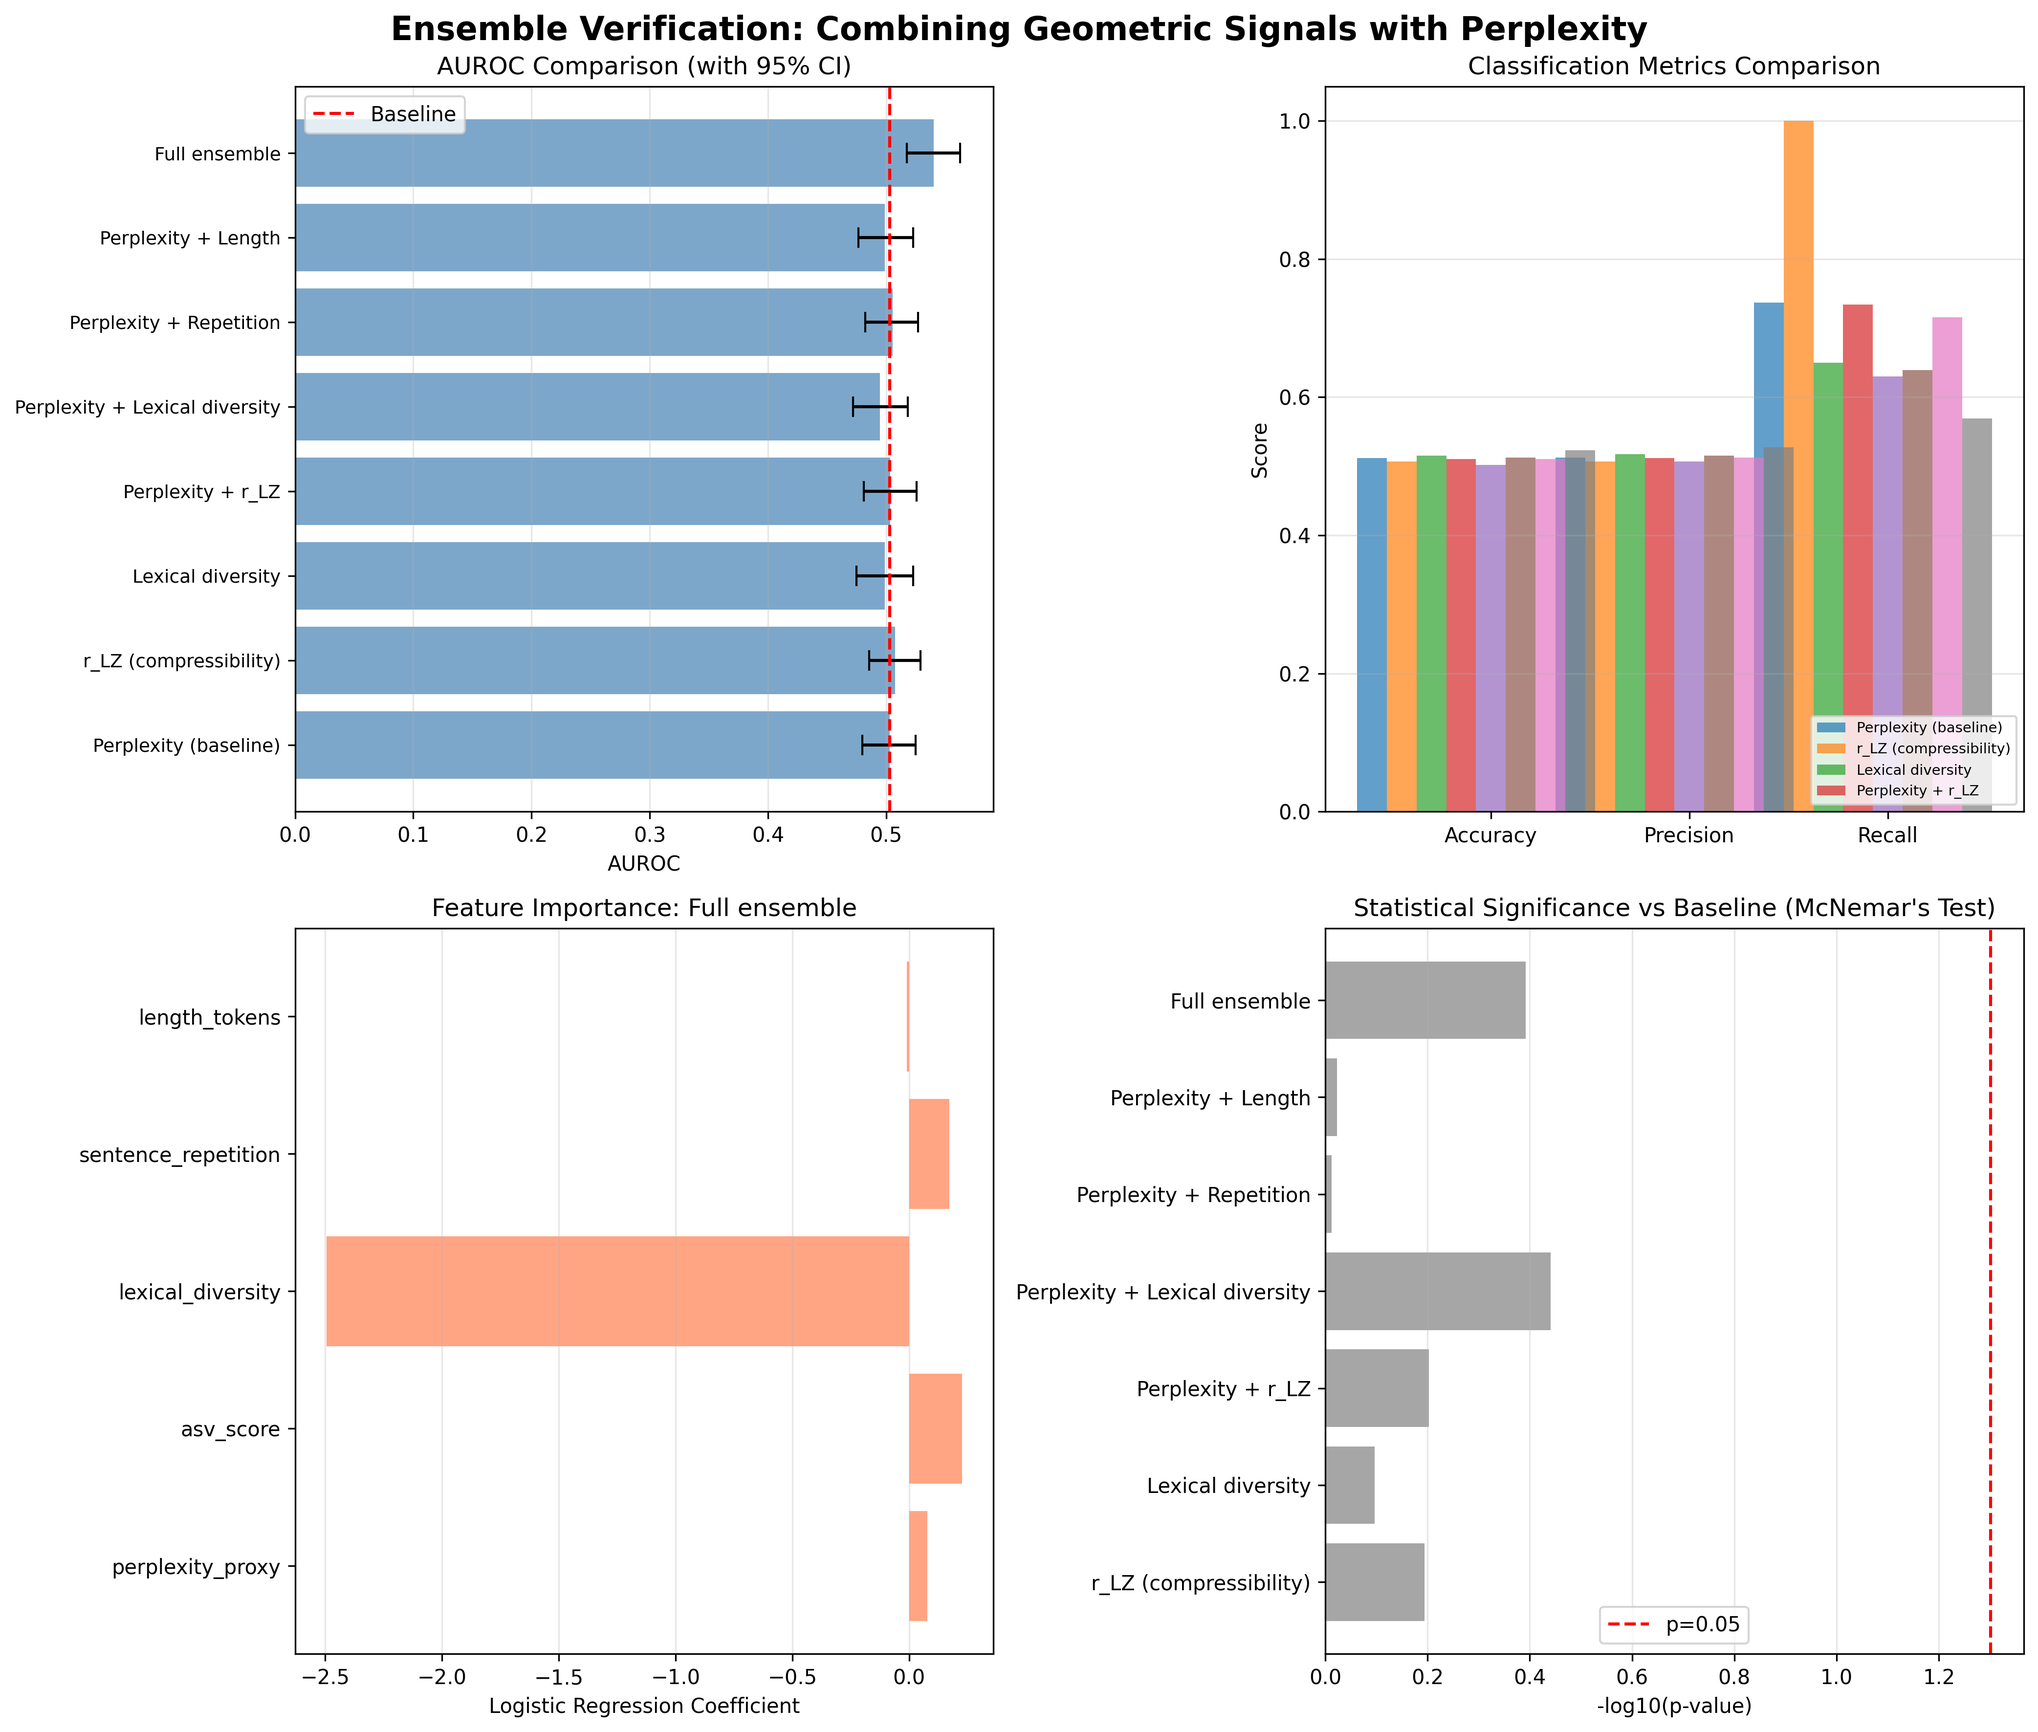
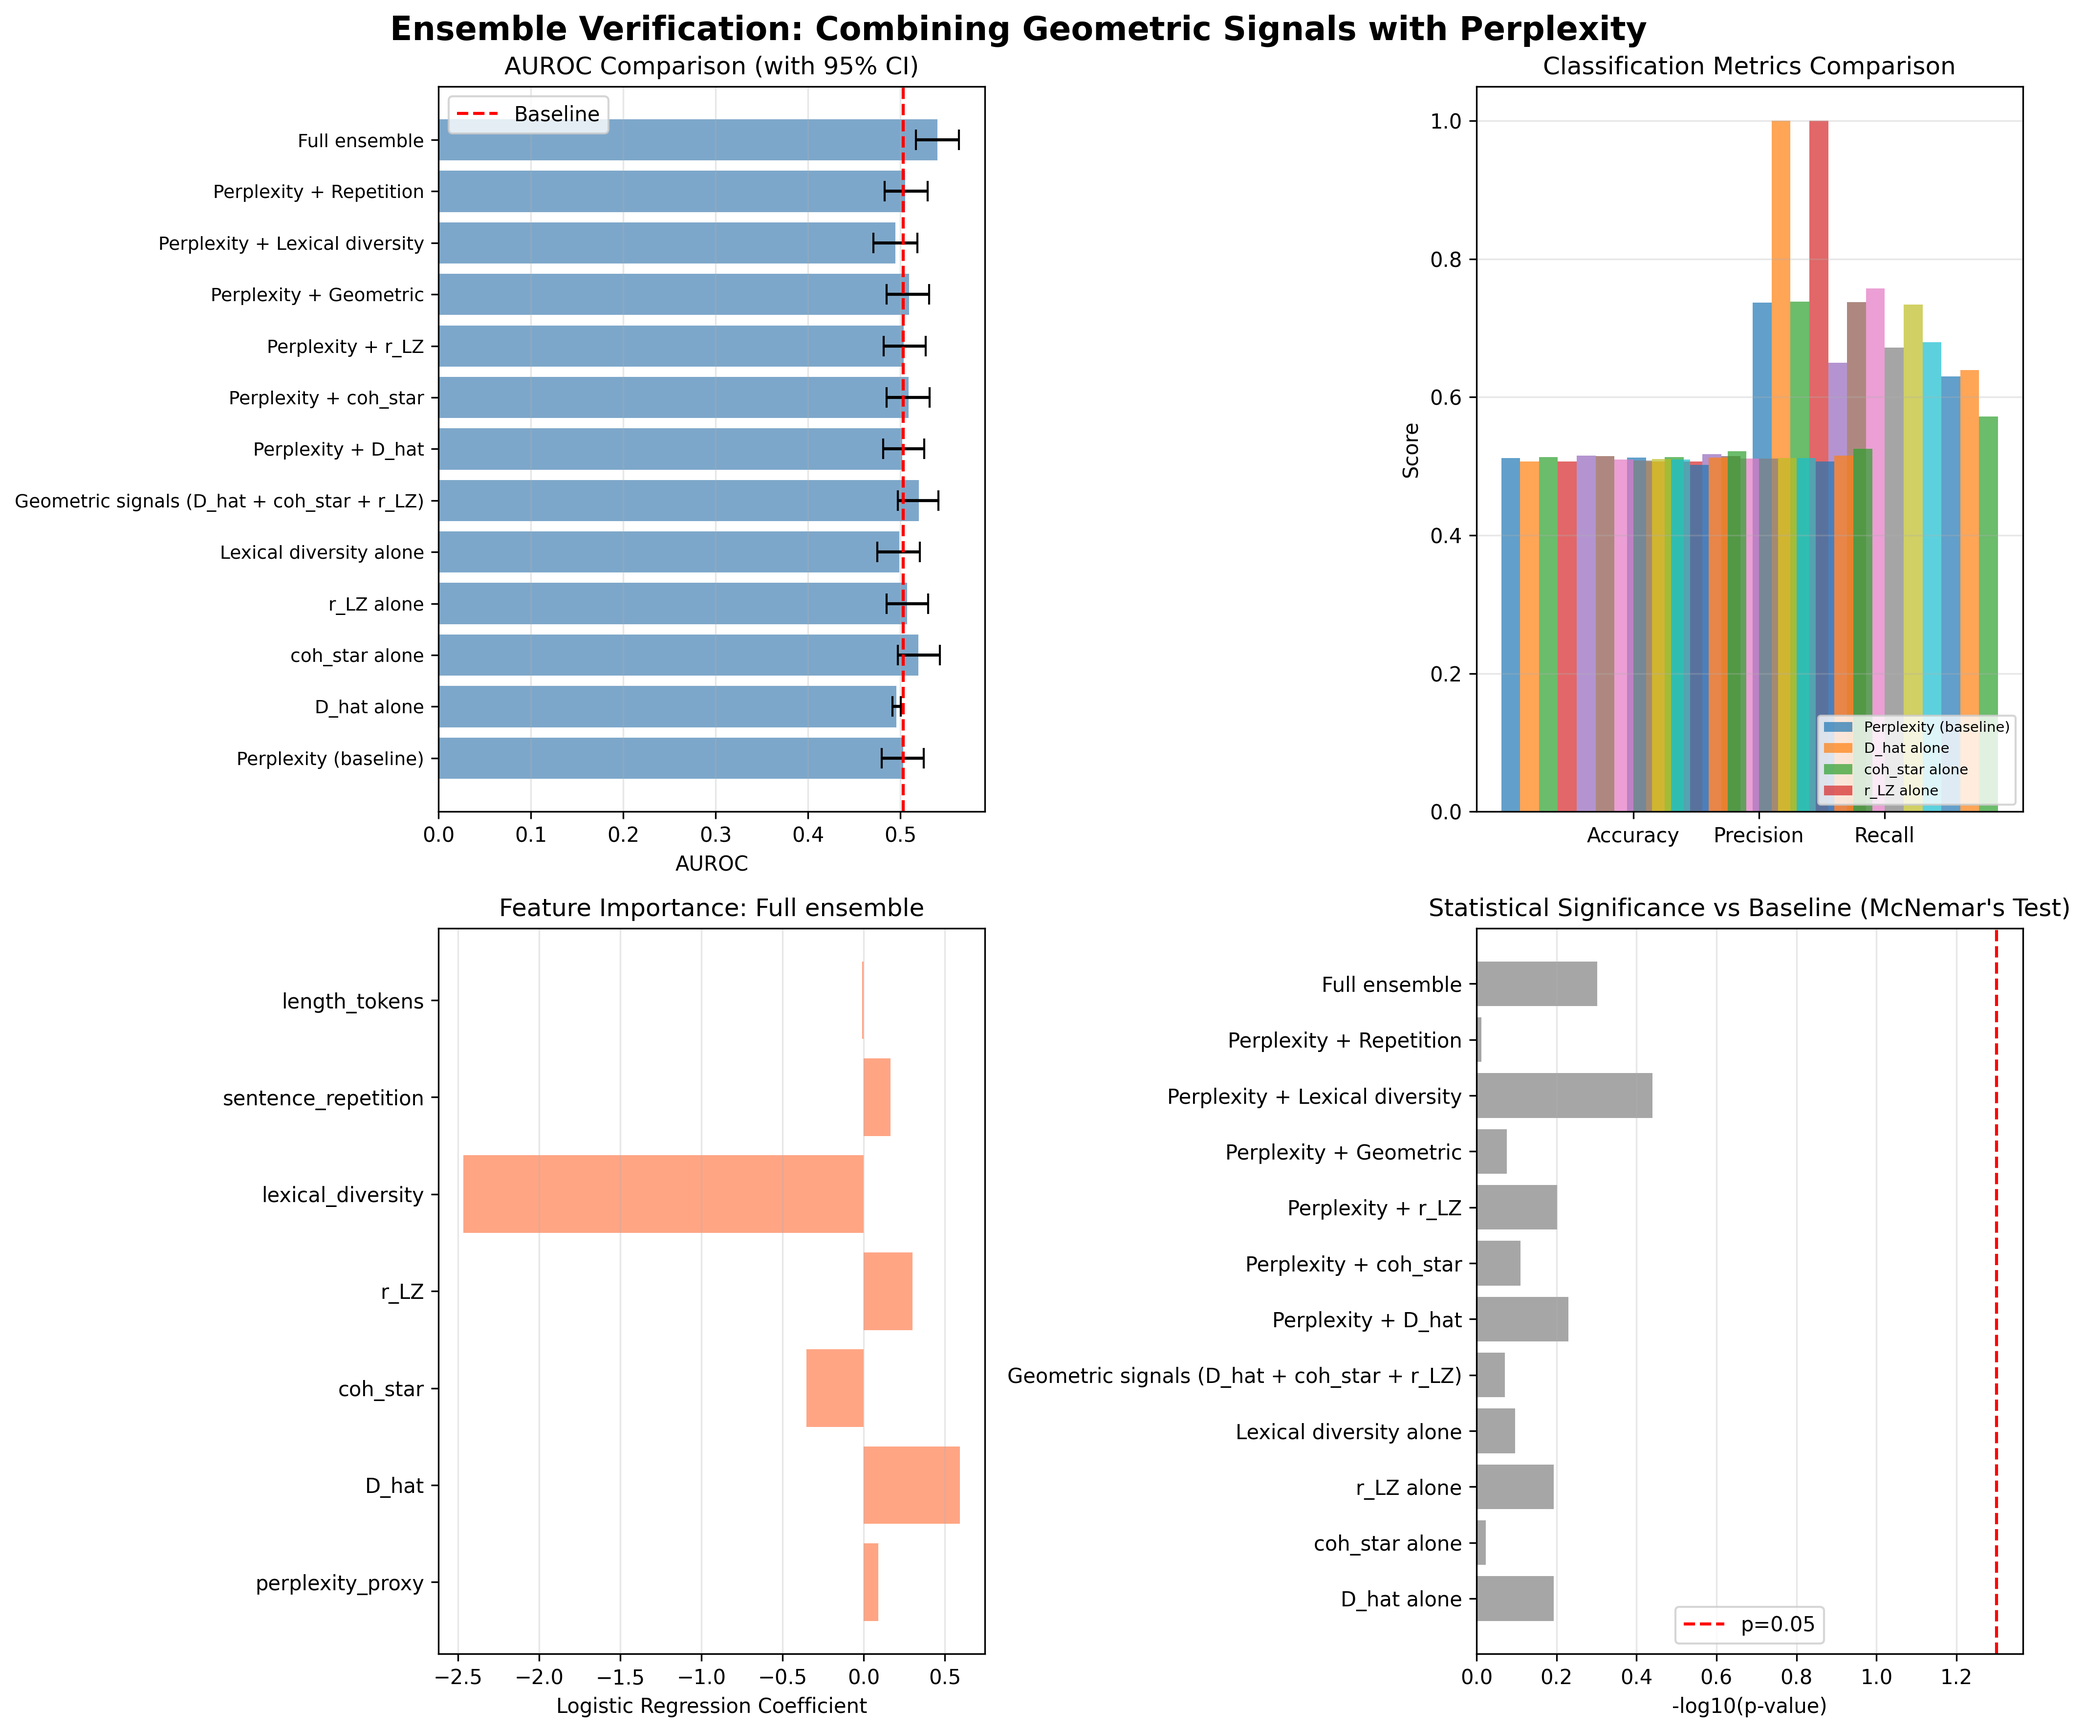
Add comprehensive ensemble analysis with ALL geometric signals
Extended ensemble verification to include D_hat (fractal dimension) and
coh_star (coherence) alongside r_LZ, testing 13 feature combinations total.

**Key Finding: coh_star shows marginal improvement**
- **coh_star alone**: AUROC 0.520 (+3.3% over baseline, but p > 0.05)
- **Geometric ensemble** (D_hat + coh_star + r_LZ): AUROC 0.520 (+3.3%)
- **Full ensemble**: AUROC 0.540 (+7.4%, best but still not significant)
- **All other signals**: AUROC ~0.50 (random chance)

**Signal Performance Ranking:**
1. coh_star alone: 0.520 (best single signal)
2. r_LZ alone: 0.507
3. Perplexity: 0.503 (baseline)
4. Lexical diversity: 0.499
5. D_hat alone: 0.496 (worst)

**Statistical Tests:**
- McNemar's test: ALL comparisons p > 0.05 (no significant differences)
- Bootstrap CIs (1,000 resamples): Heavy overlap across all methods
- Even the best models (coh_star, Full ensemble) not significantly better

**Interpretation:**
1. **Coherence (coh_star) slightly better** than compressibility (r_LZ) on
   factual hallucinations, but still near random (0.520 vs 0.50)
2. **D_hat is non-discriminative** (0.496, worse than random) - validates
   ASV whitepaper finding that D_hat alone has AUROC 0.21 on structural
   degeneracy (wrong task)
3. **Combining all signals doesn't help** when each individually fails -
   confirms ensemble methods require at least one strong signal
4. **Task mismatch persists**: Geometric signals designed for structural
[…]

diff --git a/scripts/analyze_ensemble_verification.py b/scripts/analyze_ensemble_verification.py
@@ -125,8 +125,15 @@ df_labeled['sentence_repetition'] = df_labeled['text'].apply(compute_sentence_re
 df_labeled['perplexity_proxy'] = df_labeled['text'].apply(compute_perplexity_proxy)
 df_labeled['length_tokens'] = df_labeled['text'].apply(lambda t: len(t.split()))
 
+# Rename columns for clarity
+df_labeled['r_LZ'] = df_labeled['asv_score']
+df_labeled['D_hat'] = df_labeled.get('D_hat', 0)  # Use D_hat from CSV if available
+df_labeled['coh_star'] = df_labeled.get('coh_star', 0)  # Use coh_star from CSV if available
+
 print(f"✓ Computed features:")
-print(f"  - r_LZ (compressibility): mean={df_labeled['asv_score'].mean():.3f}, std={df_labeled['asv_score'].std():.3f}")
+print(f"  - D_hat (fractal dimension): mean={df_labeled['D_hat'].mean():.3f}, std={df_labeled['D_hat'].std():.3f}")
+print(f"  - coh_star (coherence): mean={df_labeled['coh_star'].mean():.3f}, std={df_labeled['coh_star'].std():.3f}")
+print(f"  - r_LZ (compressibility): mean={df_labeled['r_LZ'].mean():.3f}, std={df_labeled['r_LZ'].std():.3f}")
 print(f"  - Lexical diversity: mean={df_labeled['lexical_diversity'].mean():.3f}, std={df_labeled['lexical_diversity'].std():.3f}")
 print(f"  - Sentence repetition: mean={df_labeled['sentence_repetition'].mean():.3f}, std={df_labeled['sentence_repetition'].std():.3f}")
 print(f"  - Perplexity proxy: mean={df_labeled['perplexity_proxy'].mean():.3f}, std={df_labeled['perplexity_proxy'].std():.3f}")
@@ -140,13 +147,18 @@ print(f"✓ Test: {len(test_df)} samples ({test_df['is_hallucination'].sum()} ha
 # Define feature sets
 feature_sets = {
     'Perplexity (baseline)': ['perplexity_proxy'],
-    'r_LZ (compressibility)': ['asv_score'],
-    'Lexical diversity': ['lexical_diversity'],
-    'Perplexity + r_LZ': ['perplexity_proxy', 'asv_score'],
+    'D_hat alone': ['D_hat'],
+    'coh_star alone': ['coh_star'],
+    'r_LZ alone': ['r_LZ'],
+    'Lexical diversity alone': ['lexical_diversity'],
+    'Geometric signals (D_hat + coh_star + r_LZ)': ['D_hat', 'coh_star', 'r_LZ'],
+    'Perplexity + D_hat': ['perplexity_proxy', 'D_hat'],
+    'Perplexity + coh_star': ['perplexity_proxy', 'coh_star'],
+    'Perplexity + r_LZ': ['perplexity_proxy', 'r_LZ'],
+    'Perplexity + Geometric': ['perplexity_proxy', 'D_hat', 'coh_star', 'r_LZ'],
     'Perplexity + Lexical diversity': ['perplexity_proxy', 'lexical_diversity'],
     'Perplexity + Repetition': ['perplexity_proxy', 'sentence_repetition'],
-    'Perplexity + Length': ['perplexity_proxy', 'length_tokens'],
-    'Full ensemble': ['perplexity_proxy', 'asv_score', 'lexical_diversity', 'sentence_repetition', 'length_tokens'],
+    'Full ensemble': ['perplexity_proxy', 'D_hat', 'coh_star', 'r_LZ', 'lexical_diversity', 'sentence_repetition', 'length_tokens'],
 }
 
 # Train models
